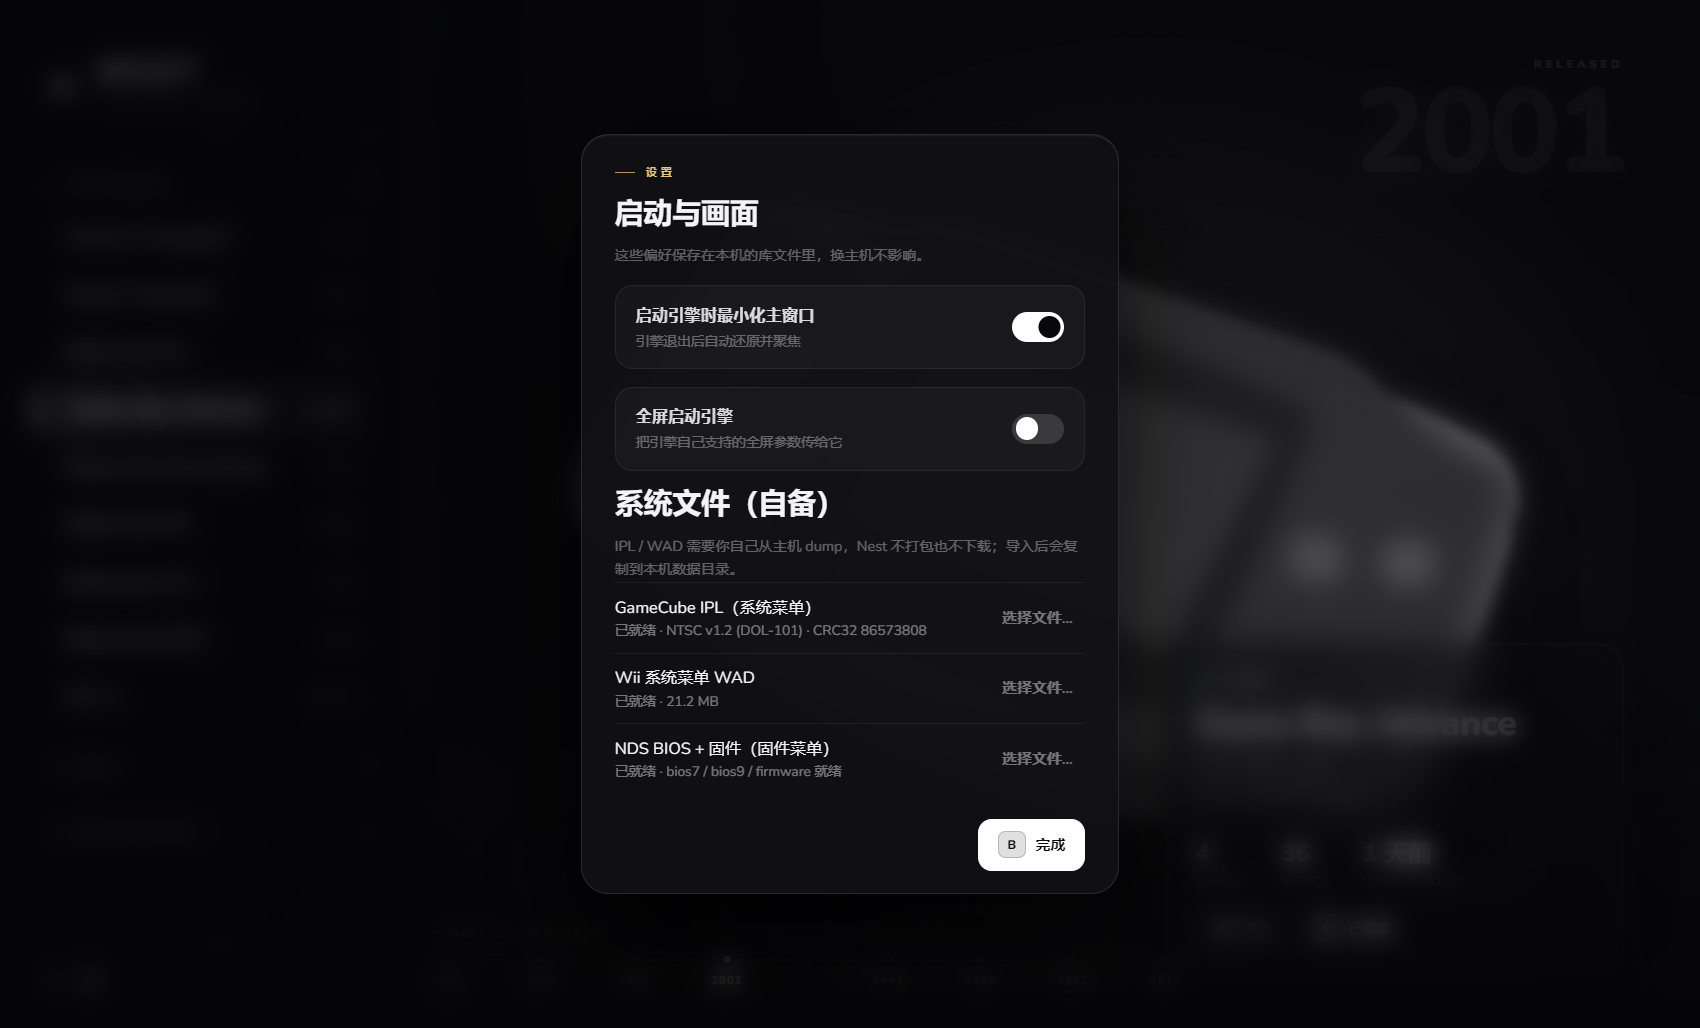
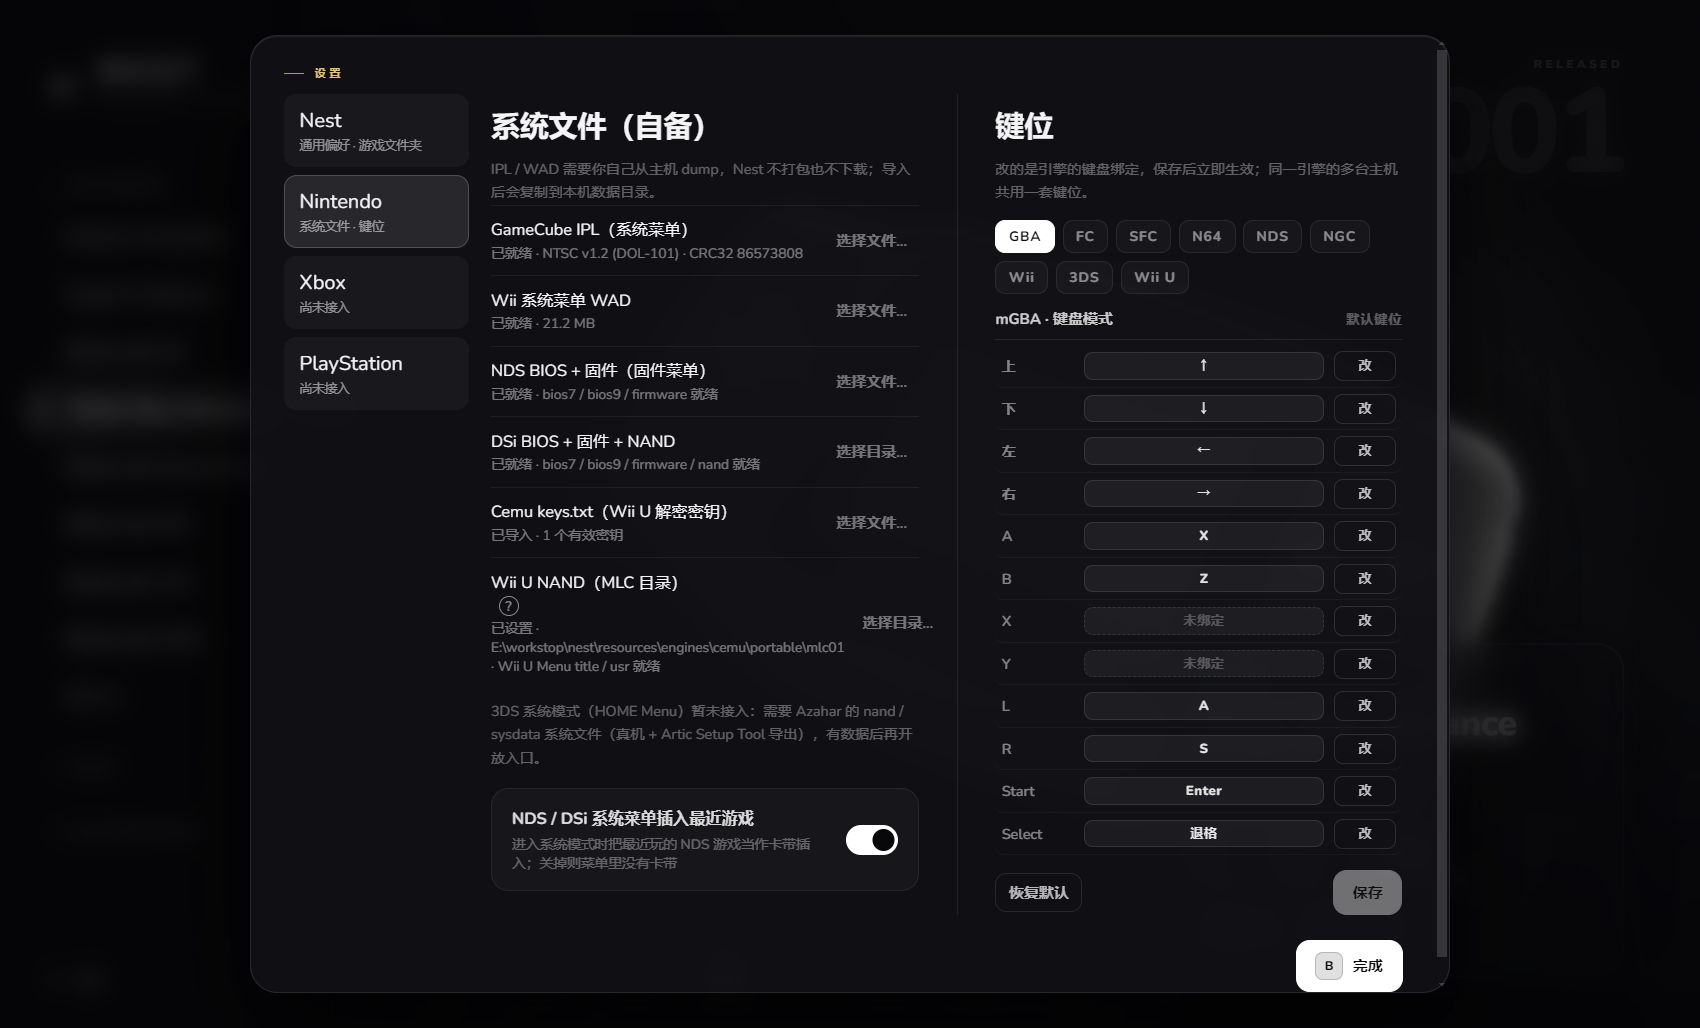
release: 0.4.1-beta.1 (NDS/DSi line, settings split, GBA cheats, Cemu keys)

diff --git a/README.md b/README.md
@@ -5,13 +5,13 @@
 
 ![Nest 首页](shots/app.png)
 
-> 当前：**0.4.0-beta.1** —— Windows 桌面版 · 九台任天堂主机 · 六个内置引擎 + 自写 libretro 宿主 · 免安装携带版
+> 当前：**0.4.1-beta.1** —— Windows 桌面版 · 九台任天堂主机（含 NDS 四机型）· 六个内置引擎 + 自写 libretro 宿主 · 免安装携带版
 
 ## 下载
 
 直接下免安装版，解压双击即可用，不需要安装 Node 或任何依赖：
 
-**[Nest-0.4.0-beta.1-portable.zip](https://github.com/Parmetty/NEST-Emulator-Station/releases/download/v0.4.0-beta.1/Nest-0.4.0-beta.1-portable.zip)** · 268 MB · [Release 页面](https://github.com/Parmetty/NEST-Emulator-Station/releases/tag/v0.4.0-beta.1)
+**[Nest-0.4.1-beta.1-portable.zip](https://github.com/Parmetty/NEST-Emulator-Station/releases/download/v0.4.1-beta.1/Nest-0.4.1-beta.1-portable.zip)** · 264 MB · [Release 页面](https://github.com/Parmetty/NEST-Emulator-Station/releases/tag/v0.4.1-beta.1)
 
 ```
 SHA256  235753F404CCFF3494D6A4C25861265C23B624F99BE5DAC4CA0DAD504D99CA22
@@ -21,7 +21,7 @@ SHA256  235753F404CCFF3494D6A4C25861265C23B624F99BE5DAC4CA0DAD504D99CA22
 1. 解压到任意目录（可放 U 盘）
 2. 双击 **`Nest.exe`** 即可（数据在 `%APPDATA%\Nest`）；想让库/封面/日志/引擎配置留在解压目录，就双击 **`启动 Nest.bat`**（便携数据模式，备用入口）
 3. 点「扫描文件夹」指向你的 ROM 目录（之后每次启动会自动重扫）
-4. 固件在 设置 →「系统文件（自备）」导入
+4. 固件在 **设置 → Nintendo →「系统文件（自备）」** 导入
 
 > 无数字签名，首次运行 Windows 可能提示 SmartScreen：选「更多信息 → 仍要运行」。
 
@@ -46,6 +46,8 @@ SHA256  235753F404CCFF3494D6A4C25861265C23B624F99BE5DAC4CA0DAD504D99CA22
 - **自动封面**：游戏运行期间由独立抓屏工具持续取帧，退出时存为封面（NDS/3DS 只截上屏）
 - **自写 libretro 宿主**：`resources/tools/nest-libretro.exe`（约 90 KB，C# + SDL3）托管官方 `dolphin_libretro.dll`，**Wii 系统菜单不再依赖 Dolphin Qt GUI 自动化**，直接加载 `wii-menu.wad` 进菜单；键盘 + 鼠标绝对指针（鼠标即 Wiimote 光标，左键 = A）
 - **键位面板**：mGBA / ares / Dolphin / Azahar / melonDS / Cemu 六引擎键盘绑定可在 Nest 里改，保存立即生效；首次启动自动写默认布局，不覆盖你已有的自定义
+- **设置分类**：设置窗口拆成 **Nest / Nintendo / Xbox / PlayStation** 四页，任天堂系统文件与键位集中在 Nintendo 页，PS/Xbox 预留
+- **NDS 系统菜单插卡**：进 DS/DSi 菜单时自动插入最近玩的 NDS 游戏（设置 → Nintendo 可关）
 - **GBA 金手指**：游戏右键「金手指…」编辑 mGBA `.cheats`，保存后启动自动生效（见 [docs/CHEATS-GBA.md](docs/CHEATS-GBA.md)）
 - **固件中心**：GameCube IPL（CRC32 白名单）、Wii 系统菜单 WAD、NDS BIOS+固件、**DSi BIOS+固件+NAND**、**Cemu keys.txt / Wii U NAND（MLC）**，一键导入（MLC 只记路径，不复制）
 - **便携模式**：库、封面、日志、引擎配置都留在程序目录，删 `data\` 即恢复出厂
@@ -71,9 +73,13 @@ SHA256  235753F404CCFF3494D6A4C25861265C23B624F99BE5DAC4CA0DAD504D99CA22
 |---|---|
 | ![游戏库](shots/shelf.png) | ![3DS](shots/shelf-3ds.png) |
 
-| 固件中心 | NDS 固件菜单 |
+| Nintendo 设置 | NDS / DSi 菜单 |
 |---|---|
-| ![固件](shots/settings-firmware.png) | ![DS 菜单](shots/nds-menu.png) |
+| ![Nintendo 设置](shots/settings-firmware.png) | ![DS 菜单](shots/nds-menu.png) |
+
+| 金手指入口 | 金手指编辑 |
+|---|---|
+| ![金手指菜单](shots/cheat-menu.png) | ![金手指面板](shots/cheat-dialog.png) |
 
 ## 从源码运行
 
@@ -111,9 +117,11 @@ npm run smoke          # 窗口 + IPC + 渲染自检
 src/
   shared/            纯数据与契约（主机表、zod schema、IPC 通道名）
   main/              主进程：窗口、IPC、库、引擎清单、进程监管、扫描器
-  main/controls/     各引擎的键盘绑定适配器（keymap + mgba/ares/dolphin/azahar/melonds）
+  main/controls/     各引擎的键盘绑定适配器（keymap + mgba/ares/dolphin/azahar/melonds/cemu）
   main/cemu.ts       Cemu keys.txt 导入、MLC 校验、启动参数组装
   main/melonds-config.ts  melonDS TOML 管理（NDS / DSi 切换，纯函数）
+main/cheats.ts        GBA 金手指文件（mGBA .cheats 读写、回退、启动参数）
+main/nds-cart.ts      NDS 系统菜单插卡选择（显式 ROM / 最近游戏 / 开关）
   preload/           contextBridge 暴露的 window.nest
   renderer/          React：首页 + 游戏库覆盖层 + 设置面板
 resources/engines/   六个便携引擎 + 清单（加主机 = 加一份 JSON）

diff --git a/docs/PROGRESS.md b/docs/PROGRESS.md
@@ -2,7 +2,7 @@
 
 > 项目里程碑与各版本主线见 [HISTORY.md](HISTORY.md)；本文件只记逐日进度与待办。
 
-> 更新于 2026-11-01（Asia/Shanghai）｜基线 `main @ 6c05163`｜版本 `0.4.0-beta.1`，最新 tag `v0.4.0-beta.1`（`4a7b667`）
+> 更新于 2026-11-03（Asia/Shanghai）｜版本 `0.4.1-beta.1`，最新 tag `v0.4.1-beta.1`
 > 依据：`git log/tag`、`docs/HISTORY.md`、`docs/STATE.md`、`docs/DECISIONS.md`、`README.md`、`resources/engines/*.json`、`src/shared/systems.ts`、`src/main/*`
 >
 > 说明：顶部 §1–§2 是**当前快照**；§3 起是逐日进度与历史记录（2026-10-28 的旧分析保留备查）。
@@ -10,7 +10,9 @@
 ## 1. 一句话现状
 
 一个 Electron「主机启动站」：扫描 ROM → 卡片墙 → 内置引擎子进程启动 → 退出回 Nest 并自动生成封面。
-**九台任天堂主机全部接入：GBA/FC/SFC/N64/NDS/3DS/NGC 直读已验证；Wii 系统菜单经自写 libretro 宿主启动（无 UIA）；Wii U 引擎（Cemu 2.6）已内置，直读链路验证通过、系统菜单为实验性（Cemu 缺 `nn_act.LoadConsoleAccount`）。**
+**九台任天堂主机全部接入：GBA/FC/SFC/N64/NDS/3DS/NGC 直读已验证；Wii 系统菜单经自写 libretro 宿主启动（无 UIA）；**
+**NDS/DSi 整条线打通（机型选择、DS 菜单、DSi Menu、系统菜单插卡）；Wii U 引擎（Cemu 2.6）已内置，直读链路验证通过、系统菜单为实验性。**
+**设置已按 Nest / Nintendo / Xbox / PlayStation 四页拆分；GBA 金手指、Cemu 键位已接入面板。**
 
 ## 2. 能力矩阵（当前）
 
@@ -24,16 +26,16 @@
 | GBA 2001 | ✅ 已验证 | —（BIOS 动画随游戏走） | mGBA 0.10.5 | 可玩 |
 | NGC 2001 | ✅ 已验证 | ✅ GameCube Menu（Qt+UIA，需 IPL） | Dolphin 2609a | 可玩 |
 | Wii 2006 | 🟡 代码就绪、无真实镜像 | ✅ Wii Menu（WAD，经 libretro 宿主） | Dolphin 2609a + nest-libretro | 菜单可用 |
-| NDS / DSi 2004/2008 | ✅ 已验证（DS / DSi） | ✅ DS 菜单 + DSi Menu（CLI `-b always`，无 UIA） | melonDS master CI 构建 | 可玩 |
-| DSi | 🟡 代码就绪（素材已备） | ✅ DSi Menu（需 DSi 固件） 🟡 待验证 | melonDS 1.1（ConsoleType=1） | 待真实转储验证 |
+| NDS / DSi 2004/2008 | ✅ 已验证（DS / DSi） | ✅ DS 菜单 + DSi Menu（CLI `-b always`，无 UIA；进入时自动插入最近游戏） | melonDS master CI 构建 | 可玩 |
 | 3DS 2011 | ✅ 已验证（自制程序） | ❌ Azahar 不支持 HOME Menu | Azahar 2126.2 | 可玩 |
 | Wii U 2012 | 🟡 链路验证（假 .wua），无真实游戏 | ⚠ 实验性：Wii U Menu 只到背景 | Cemu 2.6 | 直读待验 |
 | Xbox/PS 预留 | ✖ 锁定 | — | — | — |
 
 - 内置引擎 **353 MB**（mGBA 41.5 + ares 42.6 + Dolphin 75.1 + Azahar 101.8 + melonDS 41.5 + Cemu 50.4，不含运行时 MLC/keys）+ `nest-libretro.exe`（90 KB，自写宿主）。
 - 9 台任天堂主机全部在 `SYSTEMS` 中，6 台 Xbox/PS 预留平台标记 `locked`。
-- 键位适配器覆盖 6 个引擎（mGBA/ares/Dolphin/Azahar/melonDS/Cemu）。
-- 测试：typecheck 通过，单测 **80** 条。
+- 键位适配器覆盖 6 个引擎（mGBA/ares/Dolphin/Azahar/melonDS/Cemu）；GBA 金手指面板写入 mGBA `.cheats`。
+- 设置拆分为 Nest / Nintendo / Xbox / PlayStation 四页；任天堂系统文件与键位集中在 Nintendo。
+- 测试：typecheck 通过，单测 **100** 条。
 
 > 以下 §3 起为历史记录。当前里程碑见 [HISTORY.md](HISTORY.md)，发布级变化见 [CHANGELOG.md](CHANGELOG.md)。
 

diff --git a/docs/release-0.4.1-beta.1.md b/docs/release-0.4.1-beta.1.md
@@ -1,0 +1,64 @@
+# Nest 0.4.1 Beta · NDS/DSi 整条线 + 设置拆分 + GBA 金手指
+
+> Windows 免安装携带版。下载 `Nest-0.4.1-beta.1-portable.zip`，解压双击 **`启动 Nest.bat`** 即可。
+
+## 这个版本有什么
+
+### NDS 家族（DS / DS Lite / DSi / DSi XL）
+
+- 主机墙合并成一个 **NDS** 入口，信息卡里切换机型；四台机器各配一张插图
+- 内置引擎换成 **melonDS master CI 构建**（1.1 正式版的 `preloadROMs` 有 bug：`-b always` 不进固件菜单）
+- **NDS 系统模式改为命令行 `-b always`**，不再依赖 UIA 菜单自动化
+- **DSi / DSi XL 系统菜单可用**：保留 NAND 尾部 64 字节 nocash footer，`[DSi] ExternalBIOSEnable` 必须写布尔 `true`
+- 默认窗口从 256×384 调到 **512×768（2 倍整数缩放）**
+- **系统菜单插卡**：进菜单时自动把最近玩的 NDS 游戏插进 Slot-1，菜单能识别游戏卡；设置 → Nintendo 可关
+
+### Cemu 键位接入面板
+
+- 设置 → Nintendo → 键位新增 **Wii U**，可改 Cemu 的 Wii U GamePad 键盘绑定
+- 写入 `portable/controllerProfiles/controller0.xml`（Windows VK 码），并确保 Cemu 读取该 profile
+- 已有手配 profile 不会被启动覆盖，保存时保留 `.before-nest` 备份
+
+### GBA 金手指
+
+- GBA 游戏卡右键「金手指…」：直接编辑 mGBA `.cheats`
+- 默认写 ROM 旁的 `<游戏名>.cheats`（mGBA 自动加载）；目录只读时回退到 Nest 数据目录并 `-c` 传入
+- 支持 GameShark / Action Replay / CodeBreaker / PARv3
+
+### 设置拆分
+
+- 设置窗口拆成 **Nest / Nintendo / Xbox / PlayStation** 四个子页
+- Nest：启动与画面、游戏文件夹
+- Nintendo：系统文件（GC IPL、Wii WAD、NDS/DSi 固件、Cemu keys、Wii U MLC、3DS 说明）、键位
+- Xbox / PlayStation：预留页，列出待接入机型
+
+### 其它
+
+- **NGC 系统模式提速**：去掉固定 3 秒等待，spawn 到点中菜单约 **2.8 秒**（原先 5 秒以上）
+- DSi 固件导入修正：不再裁掉 NAND 尾部元数据
+- 键位面板、封面、运行中高亮等既有功能保持不变
+
+## 下载信息
+
+| 项 | 值 |
+|---|---|
+| 文件 | `Nest-0.4.1-beta.1-portable.zip` |
+| 大小 | 264 MB（解压 633 MB / 3171 文件） |
[1 lines of base64/hex data omitted]
+
+## 首次使用
+
+1. 解压到任意目录
+2. 双击 `启动 Nest.bat`
+3. 点「扫描文件夹」指向 ROM 目录（之后每次启动自动重扫）
+4. 固件/密钥：设置 → Nintendo →「系统文件（自备）」
+
+## 已知限制
+
+- **3DS 系统模式未接入**：需要 Azahar 的 nand/sysdata 系统文件（真机 + Artic Setup Tool）
+- Wii U Menu 仍为实验性（Cemu 2.6 `nn_act.LoadConsoleAccount` 未实现）
+- NGC / Wii 系统菜单里还不能自动插盘；Wii U 菜单只显示 MLC 里已安装的 title
+- Xbox / PlayStation 家族尚未接入，游戏库为空
+- 无数字签名：首次运行 SmartScreen 提示，选「更多信息 → 仍要运行」
+
+完整改动见 `docs/CHANGELOG.md` 的 0.4.1-beta.1 节。

diff --git a/docs/CHANGELOG.md b/docs/CHANGELOG.md
@@ -2,13 +2,22 @@
 
 本文件记录每次发布的可见变化。技术细节在 `docs/STATE.md`，决策理由在 `docs/DECISIONS.md`，待办在 `docs/PROGRESS.md`。
 
-## 未发布 — GBA 金手指 + NDS 机型 + Cemu 键位
+## 0.4.1-beta.1 — 2026-11-03 · NDS/DSi 整条线 + 设置拆分 + GBA 金手指
+
+便携包：Nest-0.4.1-beta.1-portable.zip 264 MB（解压 633 MB / 3171 文件）
+SHA256 0C38660097C310BCC296A4B051D09096E1591111B88314A4A1E4C4BAEE246308
 
 ### NDS / DSi 系统模式插卡
 
 - 进入 NDS/DSi 系统菜单时自动把**最近玩过的 NDS 游戏**插入 Slot-1（`melonDS -b always <rom>`），菜单能识别游戏卡并直接启动
 - 设置 → Nintendo 新增开关「NDS / DSi 系统菜单插入最近游戏」，关掉则保持空卡槽
 - 选择逻辑抽成 `src/main/nds-cart.ts`，单测覆盖显式 ROM / 开关 / 最近游戏 / 空库
+
+### 设置拆分（Nest / Nintendo / Xbox / PlayStation）
+
+- 设置窗口左侧新增分类导航：**Nest**（启动与画面、游戏文件夹）、**Nintendo**（系统文件、键位）、
+  **Xbox** / **PlayStation**（预留页，列出待接入机型）
+- 任天堂相关的系统文件与键位集中到 Nintendo 子页，后续 PS/Xbox 引擎接入时各自独立
 
 ### GBA 金手指
 
@@ -44,8 +53,8 @@
 - 机型选择存进设置（`settings.ndsModel`）；启动 NDS 游戏 / 系统菜单时按机型写
   melonDS `ConsoleType`（DS/DSL=0，DSi/DSiLL=1）
 - 设置 →「系统文件（自备）」新增 **DSi BIOS + 固件 + NAND** 导入：选目录，校验
-  bios7/bios9 64 KB、firmware 128 KB、nand 0xF000000；导入时自动裁掉真实 dump 尾部
-  64 字节 eMMC CID 元数据
+  bios7/bios9 64 KB、firmware 128 KB、nand 0xF000000；导入时保留真实 dump 尾部
+  64 字节 eMMC CID 元数据（nocash footer），不再裁剪
 - melonDS TOML 管理抽成纯函数 `src/main/melonds-config.ts`，新增 12 条单测（总计 80）
 - 新插图：DS Lite（公有领域）、DSi / DSi XL（CC BY-SA 3.0，Evan-Amos，见 THIRD-PARTY-NOTICES）
 

diff --git a/docs/HISTORY.md b/docs/HISTORY.md
@@ -12,11 +12,30 @@
 | 2026-10-25 | `v0.2.0-beta.1`（`2d075a5`） | P0–P2 | 首个公开 beta：Electron 外壳、扫描器、GBA/FC/SFC、封面、便携包 |
 | 2026-10-30 | `v0.3.2`（`a16a2cb`） | P3 | 引擎矩阵补全：N64/Dolphin/NDS/3DS、系统菜单、键位面板、自动扫描、便携 zip |
 | 2026-11-01 | `v0.4.0-beta.1`（`4a7b667`） | P3.5–P4 | 自写 libretro 宿主（Wii 菜单去 UIA）+ Cemu/Wii U 接入（菜单实验性） |
+| 2026-11-03 | `v0.4.1-beta.1` | P4.5 | NDS/DSi 整条线可用（机型、DSi Menu、菜单插卡）+ Cemu 键位 + GBA 金手指 + 设置拆分 |
 
 阶段说明：P0 骨架 → P1 库/扫描 → P2 GBA/FC/SFC 闭环 → P3 Dolphin/NDS/3DS +
 系统菜单 → P4 Wii U/Cemu → P5 打磨（封面、构建、安装包）。
 
 ---
+
+## v0.4.1-beta.1 · 2026-11-03
+
+**主题：NDS/DSi 整条线打通 + 设置重构成御三家结构。** 发布类型：prerelease
+发布页：https://github.com/Parmetty/NEST-Emulator-Station/releases/tag/v0.4.1-beta.1
+便携包：`Nest-0.4.1-beta.1-portable.zip`
+
+| 提交 | 内容 |
+|---|---|
+| `da0c334` | NDS/DSi 系统模式自动插入最近玩的 NDS 游戏（`-b always <rom>`），设置可关 |
+| `9d6f2a7` | 设置拆分为 Nest / Nintendo / Xbox / PlayStation 四页 |
+| `d745dd8` | GBA 金手指面板：编辑 mGBA `.cheats`，支持 GameShark/AR/CB/PARv3 |
+| `cf1dd02` | Cemu（Wii U GamePad）键位接入 Nest 键位面板 |
+| `ee6a4d4` | DSi Menu 修通：保留 NAND nocash footer、`[DSi] ExternalBIOSEnable` 写布尔 true |
+| `0936124` | NGC 系统模式 UIA 提速：去掉 3 秒固定等待，spawn→菜单约 2.8 秒 |
+| `1244c8b` | 内置 melonDS master 构建，CLI `-b always` 直开 DS 菜单，2 倍窗口 |
+| `bab6f1d` | 单个 NDS 入口 + DS/DSL/DSi/DSiLL 机型选择与四张插图 |
+| `dc19b79` | DSi host 条目、DSi 固件导入（BIOS/固件/NAND）、TOML 纯函数模块 |
 
 ## v0.4.0-beta.1 · 2026-11-01
 

diff --git a/docs/STATE.md b/docs/STATE.md
@@ -2,7 +2,7 @@
 
 > 新会话开场只需读这一份，再读 `PLAN.md` 与 `DECISIONS.md`。
 >
-> **发布状态：beta 0.2**（tag `v0.2.0-beta.1`）—— Windows 桌面版，GBA / FC / SFC / N64 全链路可玩。
+> **发布状态：0.4.1-beta.1**（tag `v0.4.1-beta.1`）—— Windows 桌面版，九台任天堂主机全部接入；NDS/DSi 整条线打通，设置按御三家拆分。
 
 ## 进度
 
@@ -13,7 +13,10 @@
 | P1.1 内置 mGBA + 启动设置 | ✅ 完成 |
 | P1.2 封面 / 右键移除 / 运行中高亮 | ✅ 完成 |
 | P2 FC + SFC + N64 闭环 | ✅ 完成（闭环）；固件校验 / 每游戏设置 / 存档备份待做 |
-| P3 NGC + Wii | 未开始 |
+| P3 NGC + Wii | ✅ 完成（直读 + 系统菜单；Wii Menu 走自写 libretro 宿主） |
+| P3.5 NDS / DSi | ✅ 完成（机型选择、DS 菜单、DSi Menu、菜单插卡） |
+| P4 Wii U（Cemu） | 🟡 直读链路就绪；系统菜单实验性 |
+| P4.5 设置拆分 / 金手指 / 键位 | ✅ 完成（Nest/Nintendo/Xbox/PS 四页；GBA 金手指；Cemu 键位） |
 
 ## P2 已完成的部分
 

diff --git a/docs/RELEASE.md b/docs/RELEASE.md
@@ -1,6 +1,8 @@
 # 打包与发布须知
 
-> **状态：已改版（2026-10-29）** —— 参见 `docs/DECISIONS.md` D20：当前只发**免安装携带版**
+> **状态：当前只发免安装携带版**（最新 `Nest-0.4.1-beta.1-portable.zip`）—— 参见 `docs/DECISIONS.md` D20；新流程见 `docs/RELEASE-RUNBOOK.md`。
+>
+> **旧状态（2026-10-29）**：当前只发**免安装携带版**
 > `Nest-0.3.0-portable.zip`（解压后双击 `启动 Nest.bat`），不做 NSIS 安装包。
 > 下面关于安装器、注册表、卸载的章节保留作为**将来需要安装版时的参考**，不是当前发布流程。
 > 当前发布流程见 `docs/CHANGELOG.md` 的「打包与发布」一节。

diff --git a/docs/RELEASE-RUNBOOK.md b/docs/RELEASE-RUNBOOK.md
@@ -20,8 +20,9 @@
 cd E:\workstop\nest
 git status --short          # 必须干净（或只剩本次要提交的发布文档）
 npm run typecheck
-npm test                    # 当前基线：40 passed
+npm test                    # 当前基线：100 passed
 node tools/clean-engines.mjs --check   # exit 0 = 引擎配置里没有本地路径
+# 打包后还要删掉 cemu/portable（keys/MLC/controllerProfiles 都是用户数据）
 ```
 
 版本号：`package.json` 的 `version` 是唯一来源。目录名、zip 名、checksums 都从它取。
